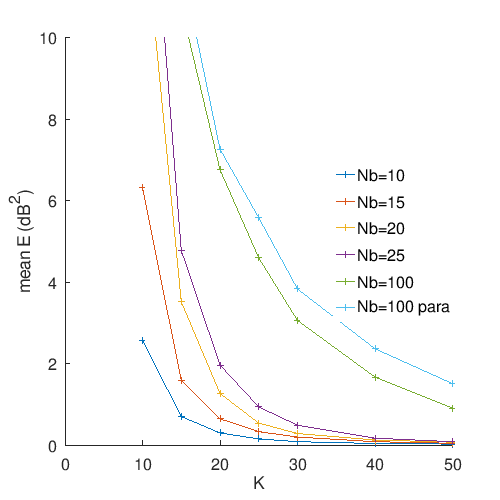
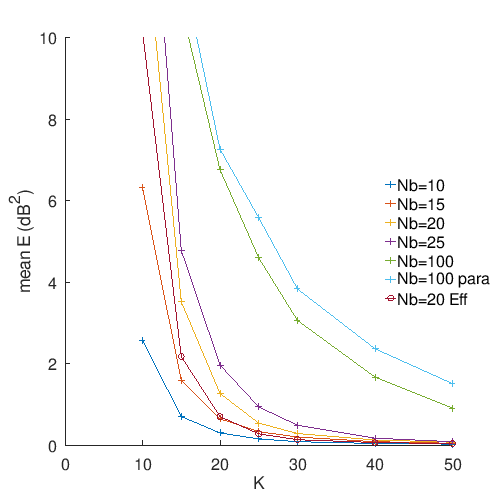
prototype rate Lhigh resampling, attempt at more efficient filtering

diff --git a/octave/ratek2_batch.m b/octave/ratek2_batch.m
@@ -30,7 +30,7 @@ function ratek2_batch_curves(samname)
     leg{i} = sprintf('Nb=%d',Nb); i++;
   end
 
-  % final curve with para - models current rateK
+  % curve with para - models current rateK
   K_vec = []; E_vec = [];
   Nb = 100;
   for K=[10 15 20 25 30 40 50]
@@ -40,6 +40,17 @@ function ratek2_batch_curves(samname)
   end
   plot(K_vec, E_vec,'-+');
   leg{i} = sprintf('Nb=%d para',Nb); i++;
+  
+  % curve with efficient ratek2
+  K_vec = []; E_vec = [];
+  Nb = 20;
+  for K=[10 15 20 25 30 40 50]
+    E = aratek2_batch_efficient(samname, Nb, K);
+    K_vec = [K_vec K];
+    E_vec = [E_vec mean(E)];
+  end
+  plot(K_vec, E_vec,'-o');
+  leg{i} = sprintf('Nb=%d Eff',Nb); i++;
   
   hold off;
   axis([0 50 0 10]);
@@ -111,6 +122,67 @@ function [E F0] = aratek2_batch(samname, Nb=20, K=30, resampler='spline', Y_out_
   printf("Nb: %d K: %d mean SD: %4.2f dB^2\n", Nb, K, mean(E));
 endfunction
 
+% More efficient implementation, we resample from rate L to Lhigh then filter at rate Lhigh,
+% so that we only need to calculate filters once.
+
+function [E F0] = aratek2_batch_efficient(samname, Nb=20, K=30)
+  more off;
+  
+  newamp_700c;
+  Fs = 8000; max_amp = 160;  Lmax = 80; Lhigh = Lmax;
+
+  model_name = strcat(samname,"_model.txt");
+  model = load(model_name);
+  [frames model_cols] = size(model);
+  amodel = zeros(frames,model_cols);
+  rate_K_sample_freqs_kHz = mel_sample_freqs_kHz(K);
+  E = zeros(1,frames);
+  F0 = zeros(1,frames);
+  
+  % precompute filters at rate Lhigh. Note range of harmonics is 1:Lhigh-1, as
+  % we don't use Lhigh-th harmonic as it's on Fs/2
+
+  h = zeros(Lhigh, Lhigh);
+  F0high = (Fs/2)/Lhigh;
+  for m=1:Lhigh-1
+    h(m,:) = generate_filter(m,F0high,Lhigh,Nb);
+  end
+  rate_Lhigh_sample_freqs_kHz = (F0high:F0high:(Lhigh-1)*F0high)/1000;
+   
+  for f=1:frames
+    Wo = model(f,1); F0(f) = Fs*Wo/(2*pi); L = model(f,2);
+    Am = model(f,3:(L+2)); AmdB = 20*log10(Am);
+    rate_L_sample_freqs_kHz = ((1:L)*F0(f))/1000;
+
+    % resample from rate L to rate Lhigh (both linearly spaced)
+    
+    AmdB_rate_Lhigh = interp1([0 rate_L_sample_freqs_kHz 4], [0 AmdB 0], rate_Lhigh_sample_freqs_kHz, "spline", "extrap");
+    
+    % Filter at rate Lhigh, y = F(R(a)). Note we filter in linear energy domain, and Lhigh are linearly spaced
+
+    YdB = zeros(1,Lhigh-1);
+    for m=1:Lhigh-1
+      Am_rate_Lhigh = 10.^(AmdB_rate_Lhigh/20);
+      Y = sum(Am_rate_Lhigh.^2 .* h(m,1:Lhigh-1));
+      YdB(m) = 10*log10(Y);
+    end
+    
+    % Resample from rate Lhigh to rate K b=R(Y), note K are non-linearly spaced (warped freq axis)
+
+    B = interp1(rate_Lhigh_sample_freqs_kHz, YdB, rate_K_sample_freqs_kHz, "spline", "extrap");
+
+    % now back to rate Lhigh
+    
+    YdB_ = interp1([0 rate_K_sample_freqs_kHz 4], [0 B 0], rate_Lhigh_sample_freqs_kHz, "spline", 0);
+    
+    Lmin = round(200/F0high); Lmax = floor(3700/F0high);
+    E(f)  = sum((YdB(Lmin:Lmax) - YdB_(Lmin:Lmax)).^2)/(Lmax-Lmin+1);
+  end
+
+  printf("Nb: %d K: %d mean SD: %4.2f dB^2\n", Nb, K, mean(E));
+endfunction
+
+
 % used to generate rate K VQ training data
 #{
   To compare VQ perf with Nb=20 and Nb=100:
@@ -127,7 +199,7 @@ function B = ratek2_model_to_ratek(samname, Nb=20, K=30, B_out_fn="")
   more off;
   
   newamp_700c;
-  Fs = 8000; max_amp = 160; resampler='spline';
+  Fs = 8000; max_amp = 160; resampler='spline'; Lhigh=80;
 
   model_name = strcat(samname,"_model.txt");
   model = load(model_name);
@@ -135,24 +207,40 @@ function B = ratek2_model_to_ratek(samname, Nb=20, K=30, B_out_fn="")
   rate_K_sample_freqs_kHz = mel_sample_freqs_kHz(K);
   B = zeros(frames,K);
   
+  % precompute filters at rate Lhigh. Note range of harmonics is 1:Lhigh-1, as
+  % we don't use Lhigh-th harmonic as it's on Fs/2
+
+  h = zeros(Lhigh, Lhigh);
+  F0high = (Fs/2)/Lhigh;
+  for m=1:Lhigh-1
+    h(m,:) = generate_filter(m,F0high,Lhigh,Nb);
+  end
+  rate_Lhigh_sample_freqs_kHz = (F0high:F0high:(Lhigh-1)*F0high)/1000;
+   
   for f=1:frames
     Wo = model(f,1); F0 = Fs*Wo/(2*pi); L = model(f,2);
-    Am = model(f,3:(L+2));
-    Am_freqs_kHz = (1:L)*Wo*4/pi;
+    Am = model(f,3:(L+2)); AmdB = 20*log10(Am);
+    rate_L_sample_freqs_kHz = ((1:L)*F0)/1000;
 
-    % Filter at rate L, Y = F(A)
-    Y = zeros(1,L);
-    for m=1:L
-      h = generate_filter(m,F0,L,Nb);
-      Y(m) = sqrt(sum(Am.^2 .* h));
+    % resample from rate L to rate Lhigh (both linearly spaced)
+    
+    AmdB_rate_Lhigh = interp1([0 rate_L_sample_freqs_kHz 4], [0 AmdB 0], rate_Lhigh_sample_freqs_kHz, "spline", "extrap");
+    
+    % Filter at rate Lhigh, y = F(R(a)). Note we filter in linear energy domain, and Lhigh are linearly spaced
+
+    YdB = zeros(1,Lhigh-1);
+    for m=1:Lhigh-1
+      Am_rate_Lhigh = 10.^(AmdB_rate_Lhigh/20);
+      Y = sum(Am_rate_Lhigh.^2 .* h(m,1:Lhigh-1));
+      YdB(m) = 10*log10(Y);
     end
+    
+    % Resample from rate Lhigh to rate K b=R(Y), note K are non-linearly spaced (warped freq axis)
 
-    % Resample to rate K
-    amodel = model(f,:); amodel(3:(L+2)) = Y;
-    B(f,:) = resample_const_rate_f(amodel, rate_K_sample_freqs_kHz, clip_en = 0, resampler);
+    B(f,:) = interp1(rate_Lhigh_sample_freqs_kHz, YdB, rate_K_sample_freqs_kHz, "spline", "extrap");
   end
 
-  % optionally write B for a .f32 file for external VQ training
+  % optionally write B to a .f32 file for external VQ training
   if length(B_out_fn)
     fb = fopen(B_out_fn,"wb");
     for f=1:frames

diff --git a/octave/ratek2_high_fbf.m b/octave/ratek2_high_fbf.m
@@ -1,0 +1,126 @@
+% ratek2_high_fbf.m
+%
+% David Rowe 2022
+%
+% Rate K Experiment 2 - Filtering Am, resampling rate L<->K
+%                     - interactive Octave script to explore frame by frame
+%                       operation of rate K resampling
+%                     - this version upsamples to a rate Lhigh before filtering
+%
+% Usage:
+%   Make sure codec2-dev is compiled with the -DDUMP option - see README.md for
+%    instructions.
+%   ~/codec2-dev/build_linux/src$ ./c2sim ../../raw/hts1a.raw --dump hts1a
+%   $ cd ~/codec2-dev/octave
+%   octave:14> ratek2_high_fbf("../build_linux/src/hts1a",50)
+
+
+function ratek2_high_fbf(samname, f, resampler = 'spline')
+  more off;
+
+  newamp_700c;
+  Fs = 8000; Nb = 20; K = 30; resampler = 'spline'; Lhigh = 80;
+
+  % load up text files dumped from c2sim ---------------------------------------
+
+  sn_name = strcat(samname,"_sn.txt");
+  Sn = load(sn_name);
+  sw_name = strcat(samname,"_sw.txt");
+  Sw = load(sw_name);
+  model_name = strcat(samname,"_model.txt");
+  model = load(model_name);
+  [frames tmp] = size(model);
+  rate_K_sample_freqs_kHz = mel_sample_freqs_kHz(K);
+  
+  % precompute filters at rate Lhigh. Note range of harmonics is 1:Lhigh-1, as
+  % we don't use Lhigh-th harmonic as it's on Fs/2
+
+  h = zeros(Lhigh, Lhigh);
+  F0high = (Fs/2)/Lhigh;
+  figure(2); clf; hold on;
+  for m=1:Lhigh-1
+    h(m,:) = generate_filter(m,F0high,Lhigh,Nb);
+    plot((1:Lhigh-1)*F0high,h(m,1:Lhigh-1))
+  end
+  hold off;
+  
+  rate_Lhigh_sample_freqs_kHz = (F0high:F0high:(Lhigh-1)*F0high)/1000;
+
+  % Keyboard loop --------------------------------------------------------------
+
+  k = ' '; 
+  do
+    s = [ Sn(2*f-1,:) Sn(2*f,:) ];
+    figure(1); clf; plot(s); axis([1 length(s) -20000 20000]);
+
+    Wo = model(f,1); F0 = Fs*Wo/(2*pi); L = model(f,2);
+    Am = model(f,3:(L+2)); AmdB = 20*log10(Am);
+    Am_freqs_kHz = (1:L)*Wo*4/pi;
+
+    % resample from rate L to rate Lhigh (both linearly spaced)
+    
+    AmdB_rate_Lhigh = interp1([0 Am_freqs_kHz 4], [0 AmdB 0], rate_Lhigh_sample_freqs_kHz, "spline", "extrap");
+    
+    % Filter at rate Lhigh, y = F(R(a)). Note we filter in linear energy domain, and Lhigh are linearly spaced
+
+    YdB = zeros(1,Lhigh-1);
+    for m=1:Lhigh-1
+      Am_rate_Lhigh = 10.^(AmdB_rate_Lhigh/20);
+      Y = sum(Am_rate_Lhigh.^2 .* h(m,1:Lhigh-1));
+      YdB(m) = 10*log10(Y);
+    end
+    
+    % Resample to rate K, then back to rate Lhigh to check error
+
+    B = interp1(rate_Lhigh_sample_freqs_kHz, YdB, rate_K_sample_freqs_kHz, "spline", "extrap");
+    YdB_ = interp1([0 rate_K_sample_freqs_kHz 4], [0 B 0], rate_Lhigh_sample_freqs_kHz, "spline", 0);
+    
+    figure(3); clf;
+    l = sprintf(";rate %d AmdB;g+-", L);
+    plot((1:L)*Wo*4000/pi, AmdB, l);
+    hold on;
+    plot(rate_Lhigh_sample_freqs_kHz*1000, AmdB_rate_Lhigh, ';rate Lhigh AdB;b+-');    
+    plot(rate_Lhigh_sample_freqs_kHz*1000, YdB, ';rate Lhigh YdB;y+-');    
+    stem(rate_K_sample_freqs_kHz*1000, B, ";rate K;c+-");
+
+    Lmin = round(200/F0high); Lmax = floor(3700/F0high);
+    E = sum((YdB(Lmin:Lmax) - YdB_(Lmin:Lmax)).^2)/(Lmax-Lmin+1);
+    plot((1:Lhigh-1)*F0high, YdB_,";YdB hat;r+-");
+    l = sprintf(";E %3.2f dB;bk+-", E);
+    plot((Lmin:Lmax)*F0high, (YdB(Lmin:Lmax) - YdB_(Lmin:Lmax)), l);
+    axis([0 Fs/2 -10 80]);
+    hold off;
+
+    % interactive menu ------------------------------------------
+
+    printf("\rframe: %d  menu: n-next  b-back  q-quit p-png", f);
+    fflush(stdout);
+    k = kbhit();
+
+    if k == 'n'
+      f = f + 1;
+    endif
+    if k == 'b'
+      f = f - 1;
+    endif
+    if k == 'e'
+      if energy == 1
+        energy = 0;
+      else
+        energy = 1;
+      end
+    end
+    if (k == 'p')
+      [dir name ext]=fileparts("../build_linux/big_dog");
+      set(gca, 'FontSize', 16);
+      h = legend({"Rate L Am","Rate K Bm", "Rate L Am hat"}, "location", "north");
+      legend("boxoff")
+      set (h, "fontsize", 16);
+      xlabel('Freq (Hz)'); ylabel('Amplitude (dB)');
+      print(sprintf("ratek2_%s_%d",name,f),"-dpng","-S500,500");
+    endif
+
+  until (k == 'q')
+  printf("\n");
+
+endfunction

diff --git a/octave/newamp_700c.m b/octave/newamp_700c.m
@@ -199,10 +199,10 @@ endfunction
 % Resample Am from time-varying rate L=floor(pi/Wo) to fixed rate K.  This can be viewed
 % as a 3D surface with time, freq, and ampitude axis.
 
-function [rate_K_surface rate_K_sample_freqs_kHz] = resample_const_rate_f(model,
-                                                                          rate_K_sample_freqs_kHz,
-                                                                          clip_en=1,
-                                                                          resampler='para')
+function rate_K_surface = resample_const_rate_f(model,
+                                                rate_K_sample_freqs_kHz,
+                                                clip_en=1,
+                                                resampler='para')
   % convert rate L=pi/Wo amplitude samples to fixed rate K
 
   max_amp = 80;
@@ -215,8 +215,6 @@ function [rate_K_surface rate_K_sample_freqs_kHz] = resample_const_rate_f(model,
     L = min([model(f,2) max_amp-1]);
     Am = model(f,3:(L+2));
     AmdB = 20*log10(Am);
-    %pre = 10*log10((1:L)*Wo*4/(pi*0.3));
-    %AmdB += pre;
 
     % clip between peak and peak -50dB, to reduce dynamic range
 
@@ -228,7 +226,7 @@ function [rate_K_surface rate_K_sample_freqs_kHz] = resample_const_rate_f(model,
     rate_L_sample_freqs_kHz = (1:L)*Wo*4/pi;
 
     if strcmp(resampler, 'para')
-      rate_K_surface(f,:)  = interp_para(rate_L_sample_freqs_kHz, AmdB, rate_K_sample_freqs_kHz);
+      rate_K_surface(f,:) = interp_para(rate_L_sample_freqs_kHz, AmdB, rate_K_sample_freqs_kHz);
     else
       rate_K_surface(f,:) = interp1(rate_L_sample_freqs_kHz, AmdB, rate_K_sample_freqs_kHz, "spline", "extrap");
     end
